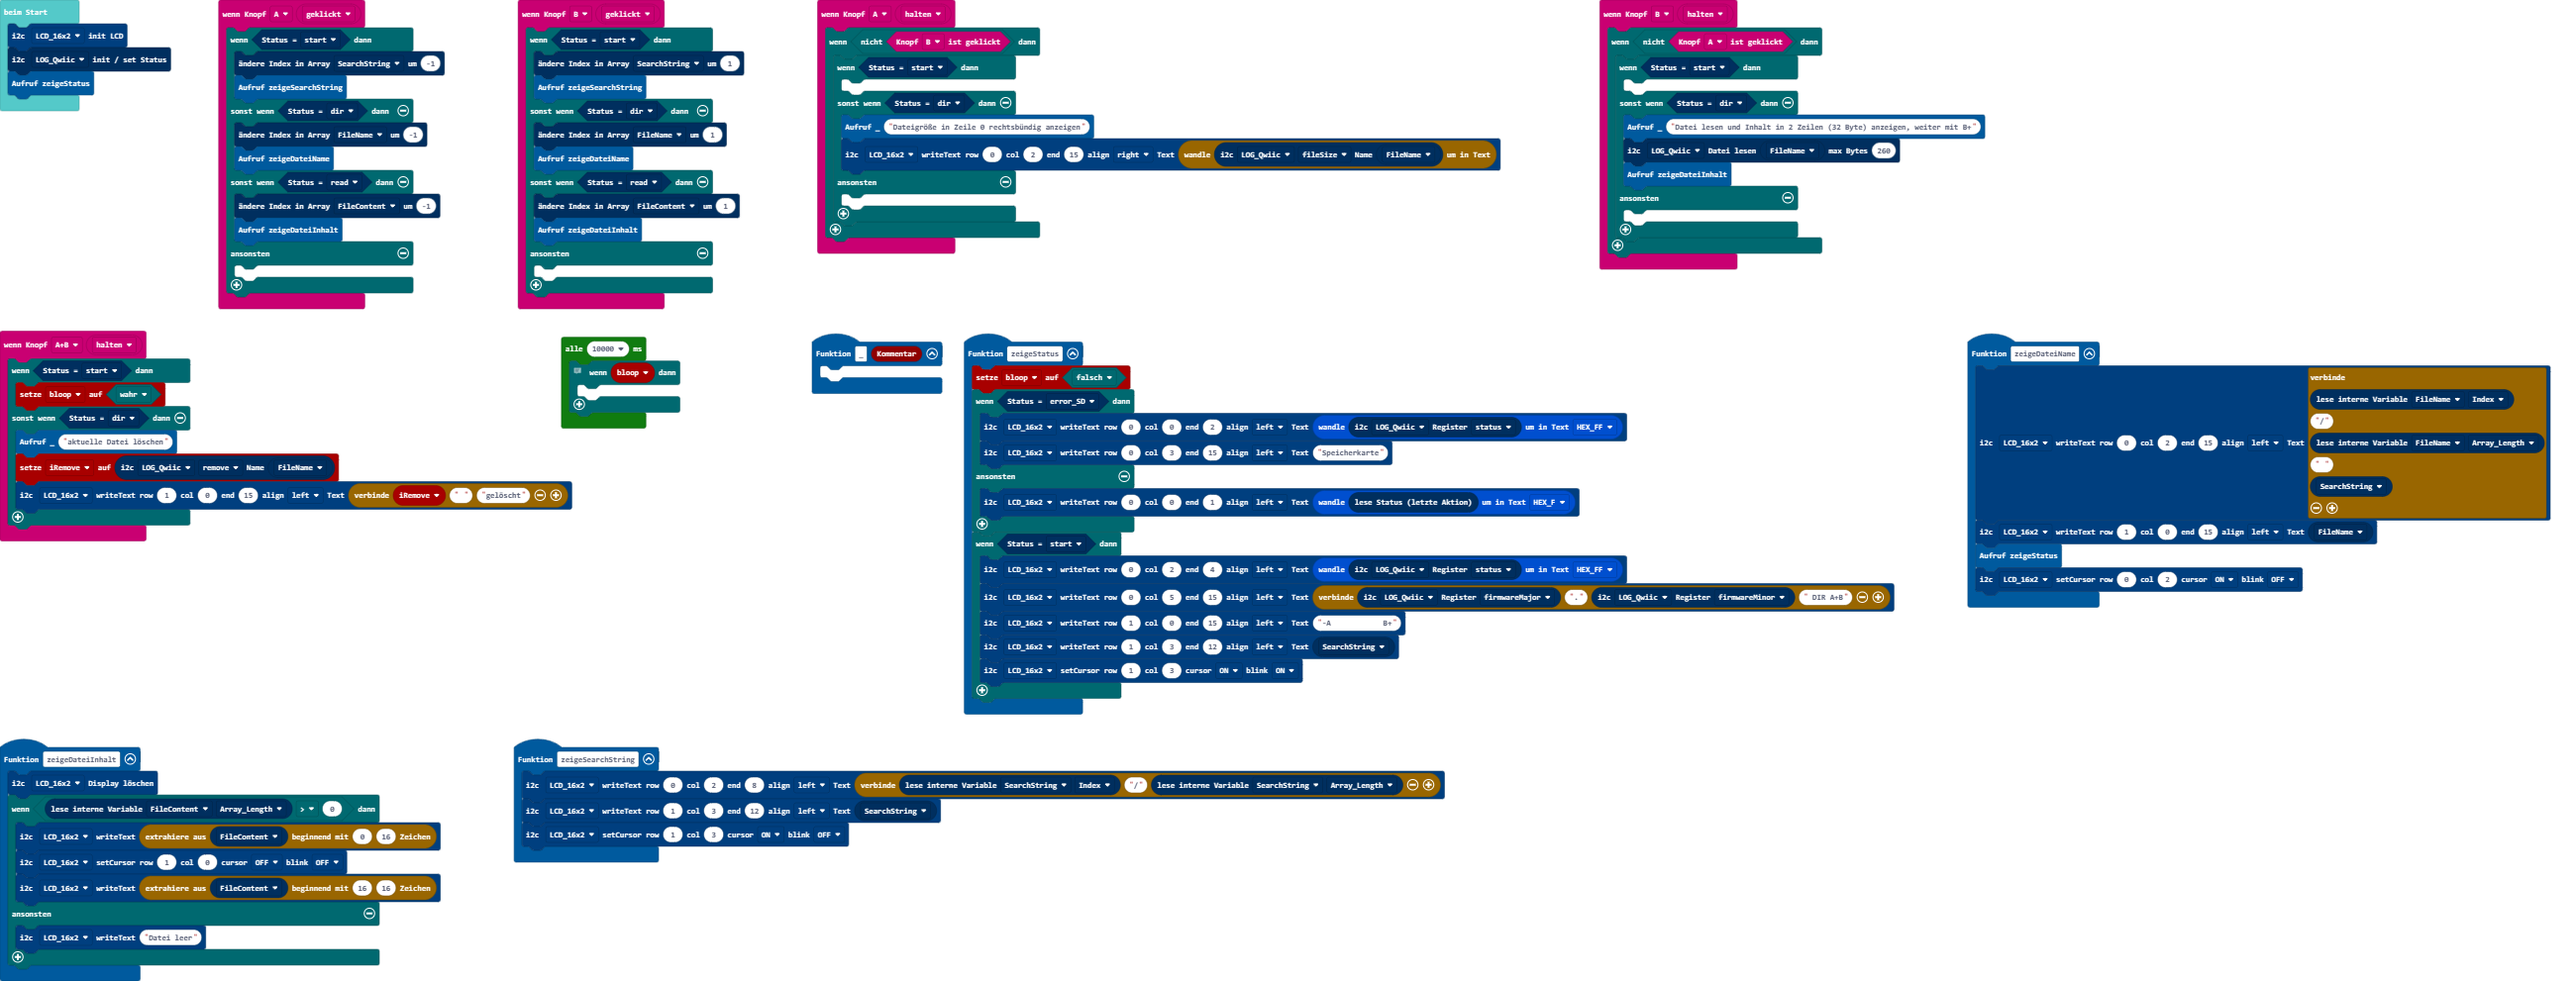
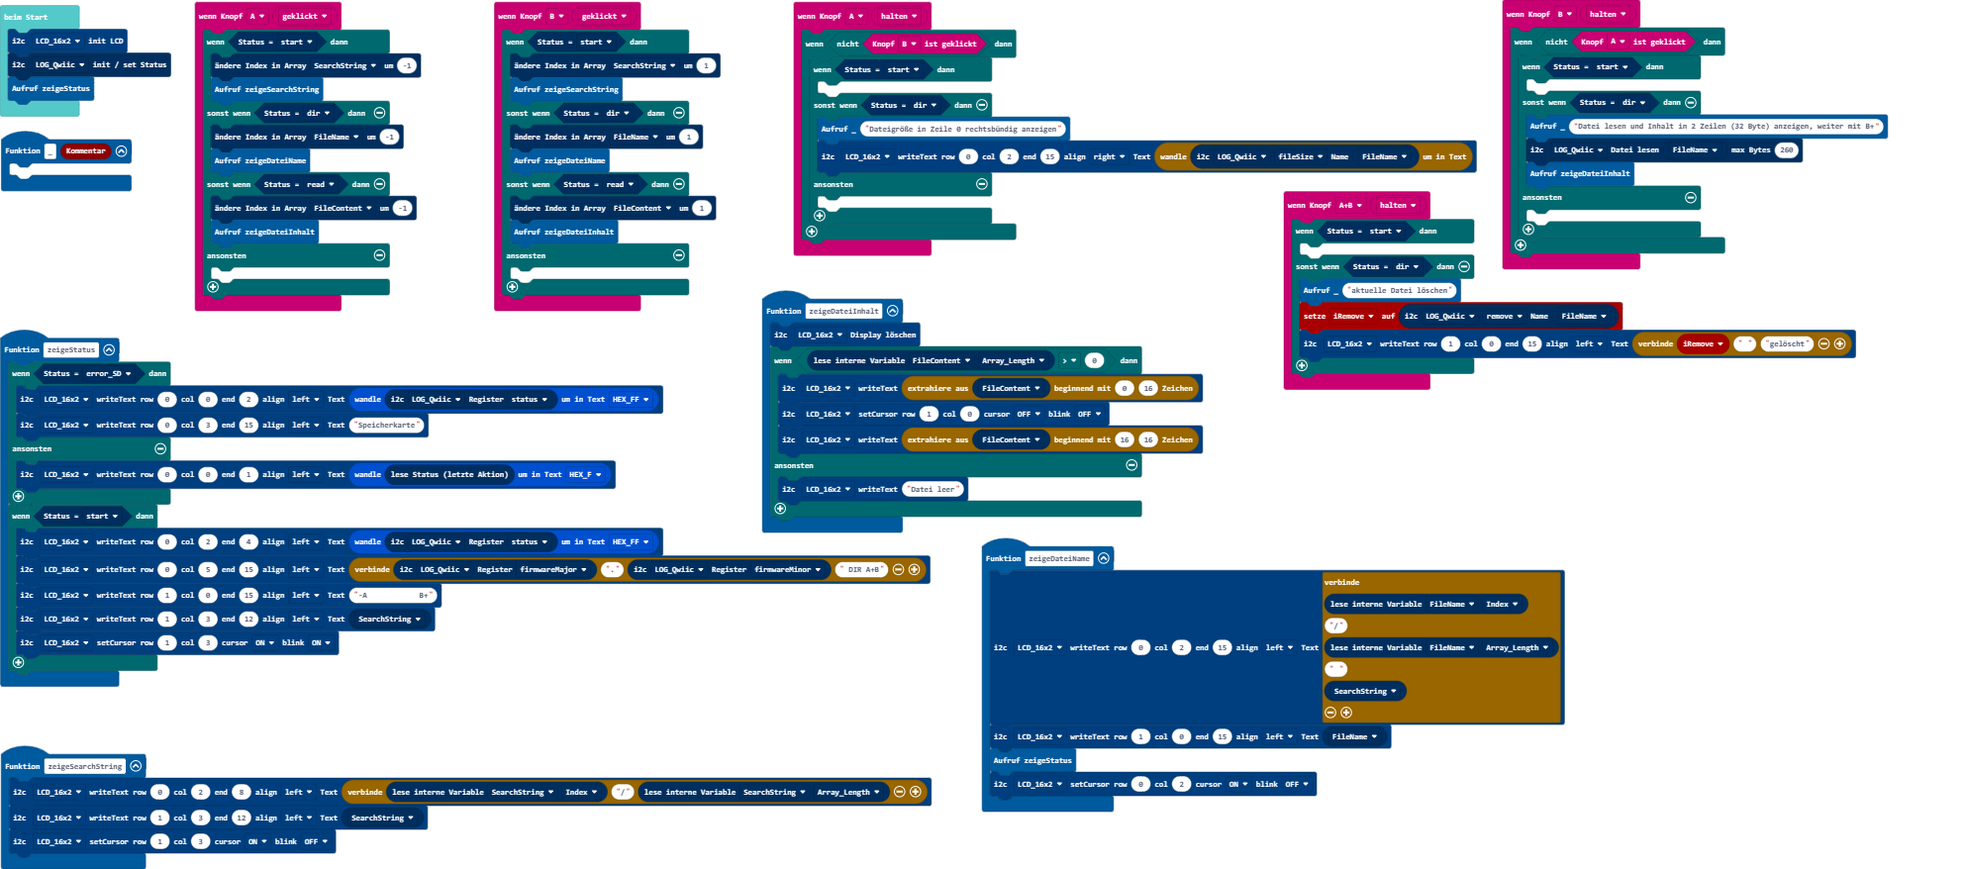
Aktualisiere main.blocks, main.ts

diff --git a/main.ts b/main.ts
@@ -34,7 +34,6 @@ function zeigeDateiName () {
     lcd16x2rgb.setCursorCB(lcd16x2rgb.eADDR_LCD.LCD_16x2, 0, 2, lcd16x2rgb.eONOFF.ON, lcd16x2rgb.eONOFF.OFF)
 }
 function zeigeStatus () {
-    bloop = false
     if (qwiicopenlog.isStatus(qwiicopenlog.eStatus.error_SD)) {
         lcd16x2rgb.writeText(lcd16x2rgb.eADDR_LCD.LCD_16x2, 0, 0, 2, lcd16x2rgb.eAlign.left, bit.formatNumber(qwiicopenlog.readRegister(qwiicopenlog.eADDR.LOG_Qwiic, qwiicopenlog.eReadRegister.status), bit.eLength.HEX_FF))
         lcd16x2rgb.writeText(lcd16x2rgb.eADDR_LCD.LCD_16x2, 0, 3, 15, lcd16x2rgb.eAlign.left, "Speicherkarte")
@@ -93,7 +92,7 @@ input.onButtonEvent(Button.B, input.buttonEventValue(ButtonEvent.Hold), function
 })
 input.onButtonEvent(Button.AB, input.buttonEventValue(ButtonEvent.Hold), function () {
     if (qwiicopenlog.isStatus(qwiicopenlog.eStatus.start)) {
-        bloop = true
+    	
     } else if (qwiicopenlog.isStatus(qwiicopenlog.eStatus.dir)) {
         _("aktuelle Datei löschen")
         iRemove = qwiicopenlog.readInt32BE(qwiicopenlog.eADDR.LOG_Qwiic, qwiicopenlog.eWriteStringReadInt32BE.remove, qwiicopenlog.getString(qwiicopenlog.eArray.FileName))
@@ -101,13 +100,6 @@ input.onButtonEvent(Button.AB, input.buttonEventValue(ButtonEvent.Hold), functio
     }
 })
 let iRemove = 0
-let bloop = false
 lcd16x2rgb.initLCD(lcd16x2rgb.eADDR_LCD.LCD_16x2)
 qwiicopenlog.checkStatusRegister(qwiicopenlog.eADDR.LOG_Qwiic)
 zeigeStatus()
-loops.everyInterval(10000, function () {
-    // i2cexamples.foreverDateLog(lcd16x2rgb.eADDR_LCD.LCD_16x2, pcf865063tp.eADDR.RTC_PCF85063TP, qwiicopenlog.eADDR.LOG_Qwiic)
-    if (bloop) {
-    	
-    }
-})
